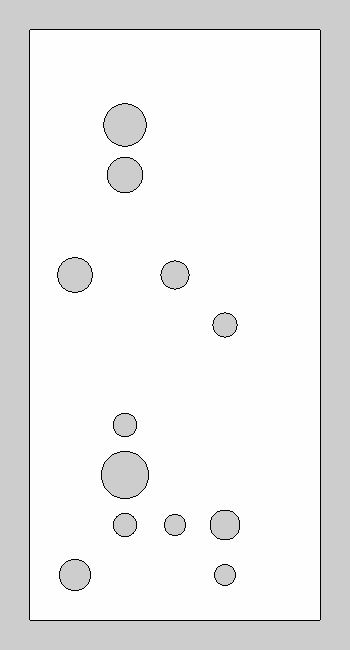
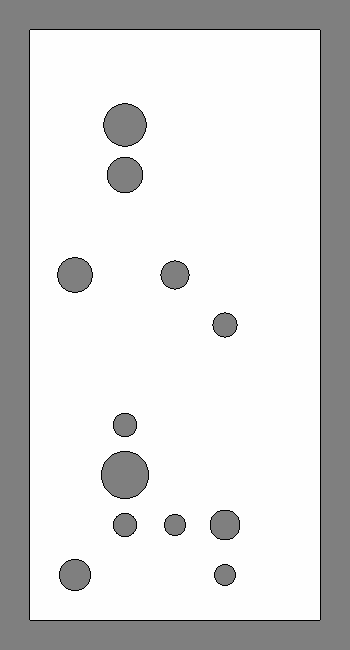
Fix bug in map png generation. Unknown values should lie between the thresholds!

diff --git a/gpt5.py b/gpt5.py
@@ -124,7 +124,7 @@ class Scene:
         ros2_occupancy_map[reachable_free] = 0
         ros2_occupancy_map[visible_obstacles] = 100
 
-        png_map = np.full((height, width), 205, dtype=np.uint8)
+        png_map = np.full((height, width), 127, dtype=np.uint8)
         png_map[ros2_occupancy_map == 0] = 254
         png_map[ros2_occupancy_map == 100] = 0
 
